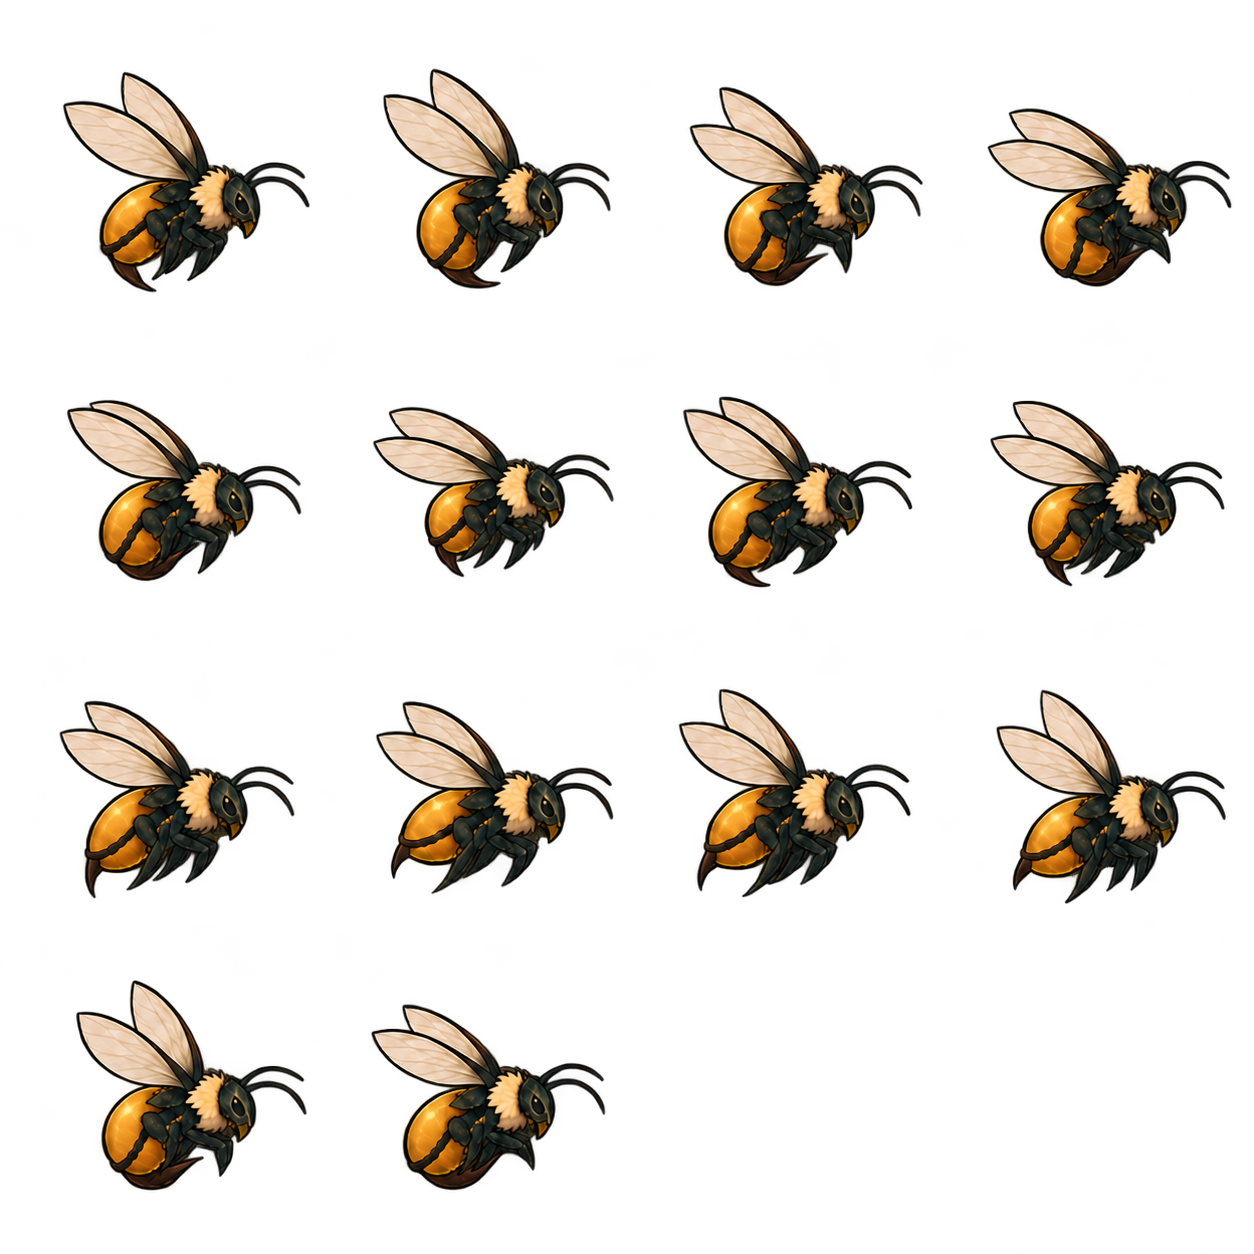
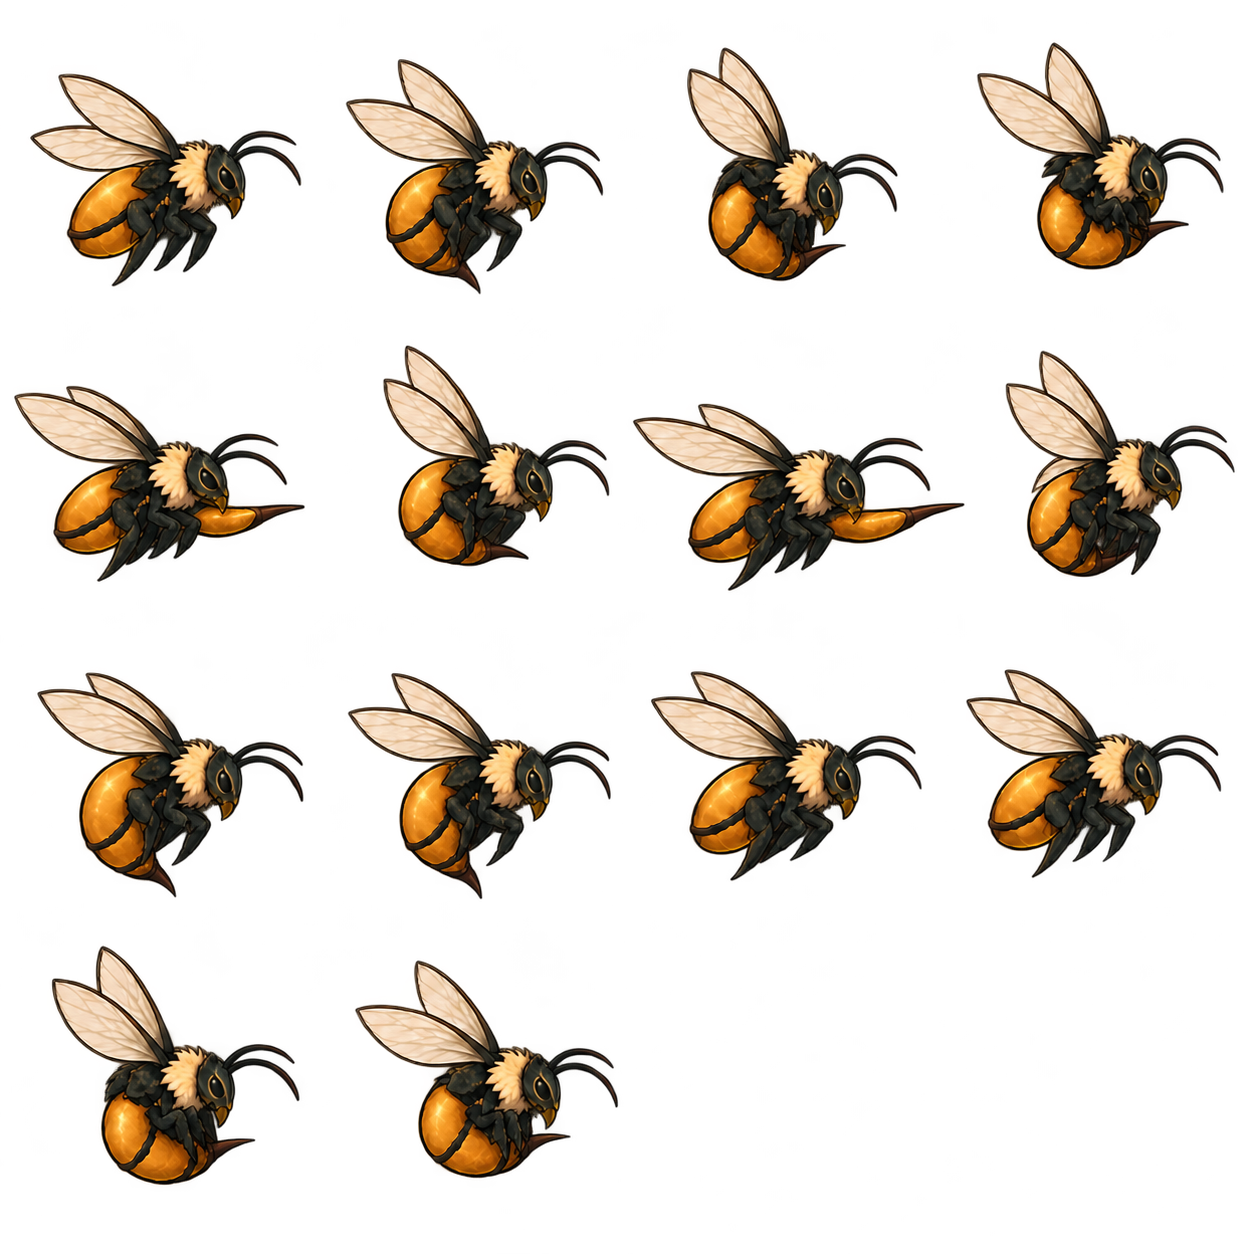
art: redraw bee stingers with strong forward abdomen jabs

diff --git a/art_requests/creature_attacks_v1/incoming/README.md b/art_requests/creature_attacks_v1/incoming/README.md
@@ -94,3 +94,5 @@
 同名 .txt 为实际提示词，.json 为参考/图像哈希、逐帧坐标和目检记录。源图保留原生成字节，尚未接入运行时；动作质量与连续循环仍需项目方验收。
 
 重画记录（2026-10-18）：`wheel_elite_ride.png` — 以原参考和已认可的 wheel_return 为标尺，将轮盾缩为站立高度约一半，接地盾顶位于腰胸之间；保留 16 格并修正重复盾牌。
+
+重画记录（2026-10-18）：`bee_stingers.png` — 重画为大幅腹部下卷及前伸，第 5／7 格分别为两次明显腹刺前弹，第 6／8 格后坐；清除两格出招中多余的后向尾刺，保留 14 格。
